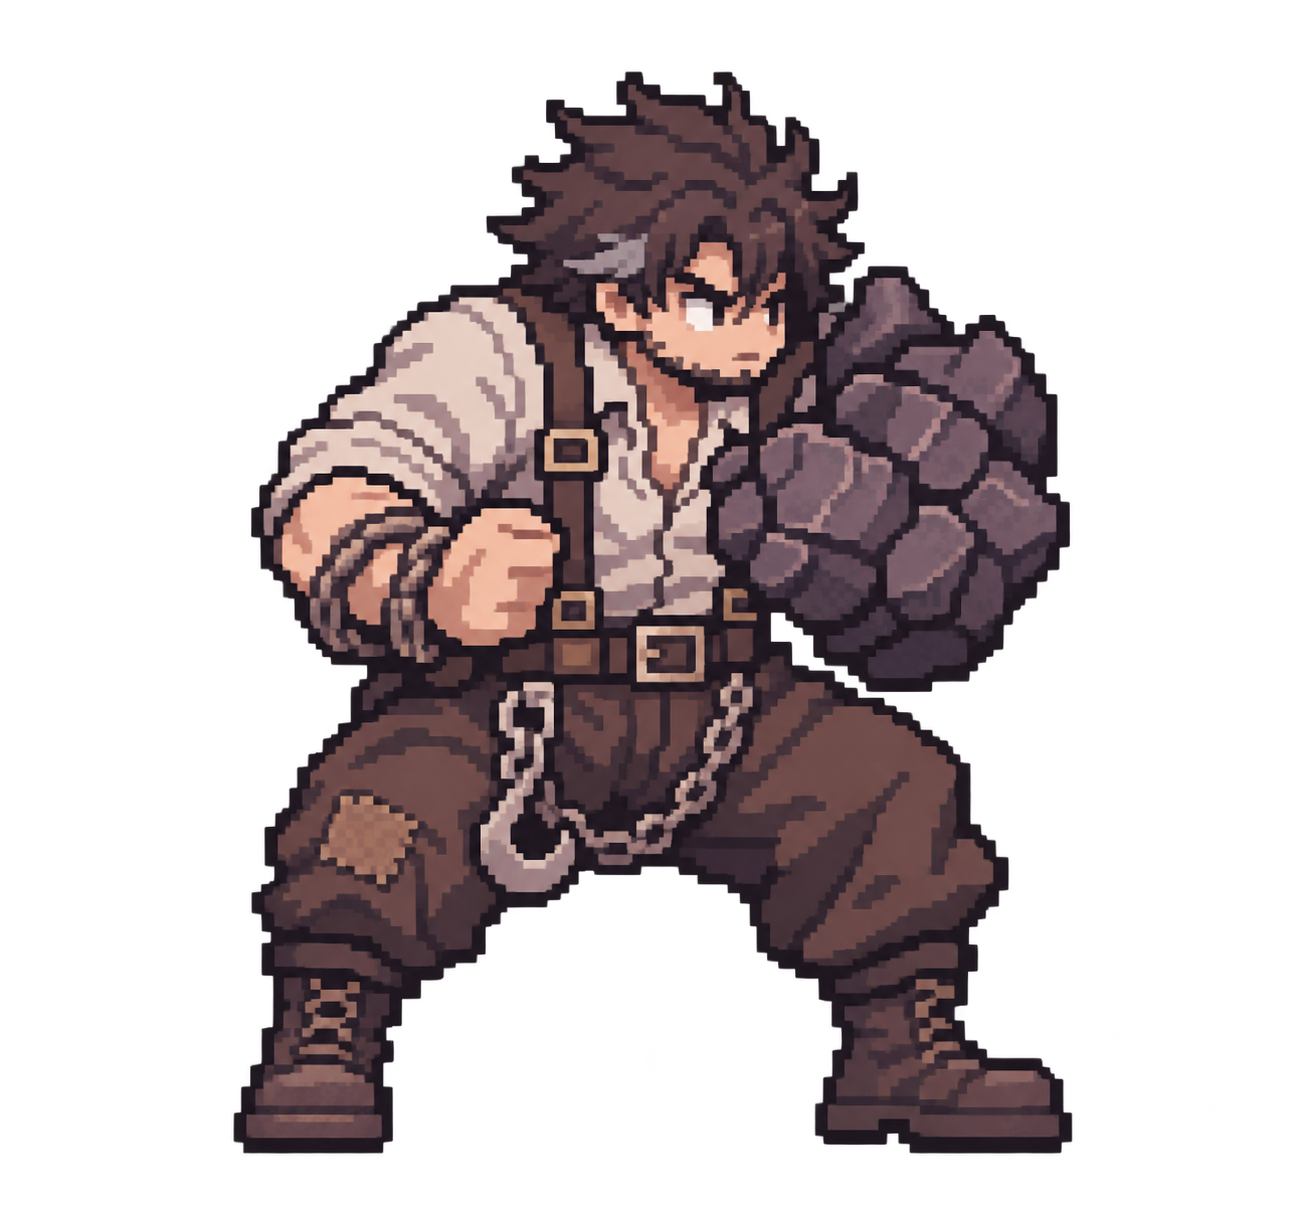
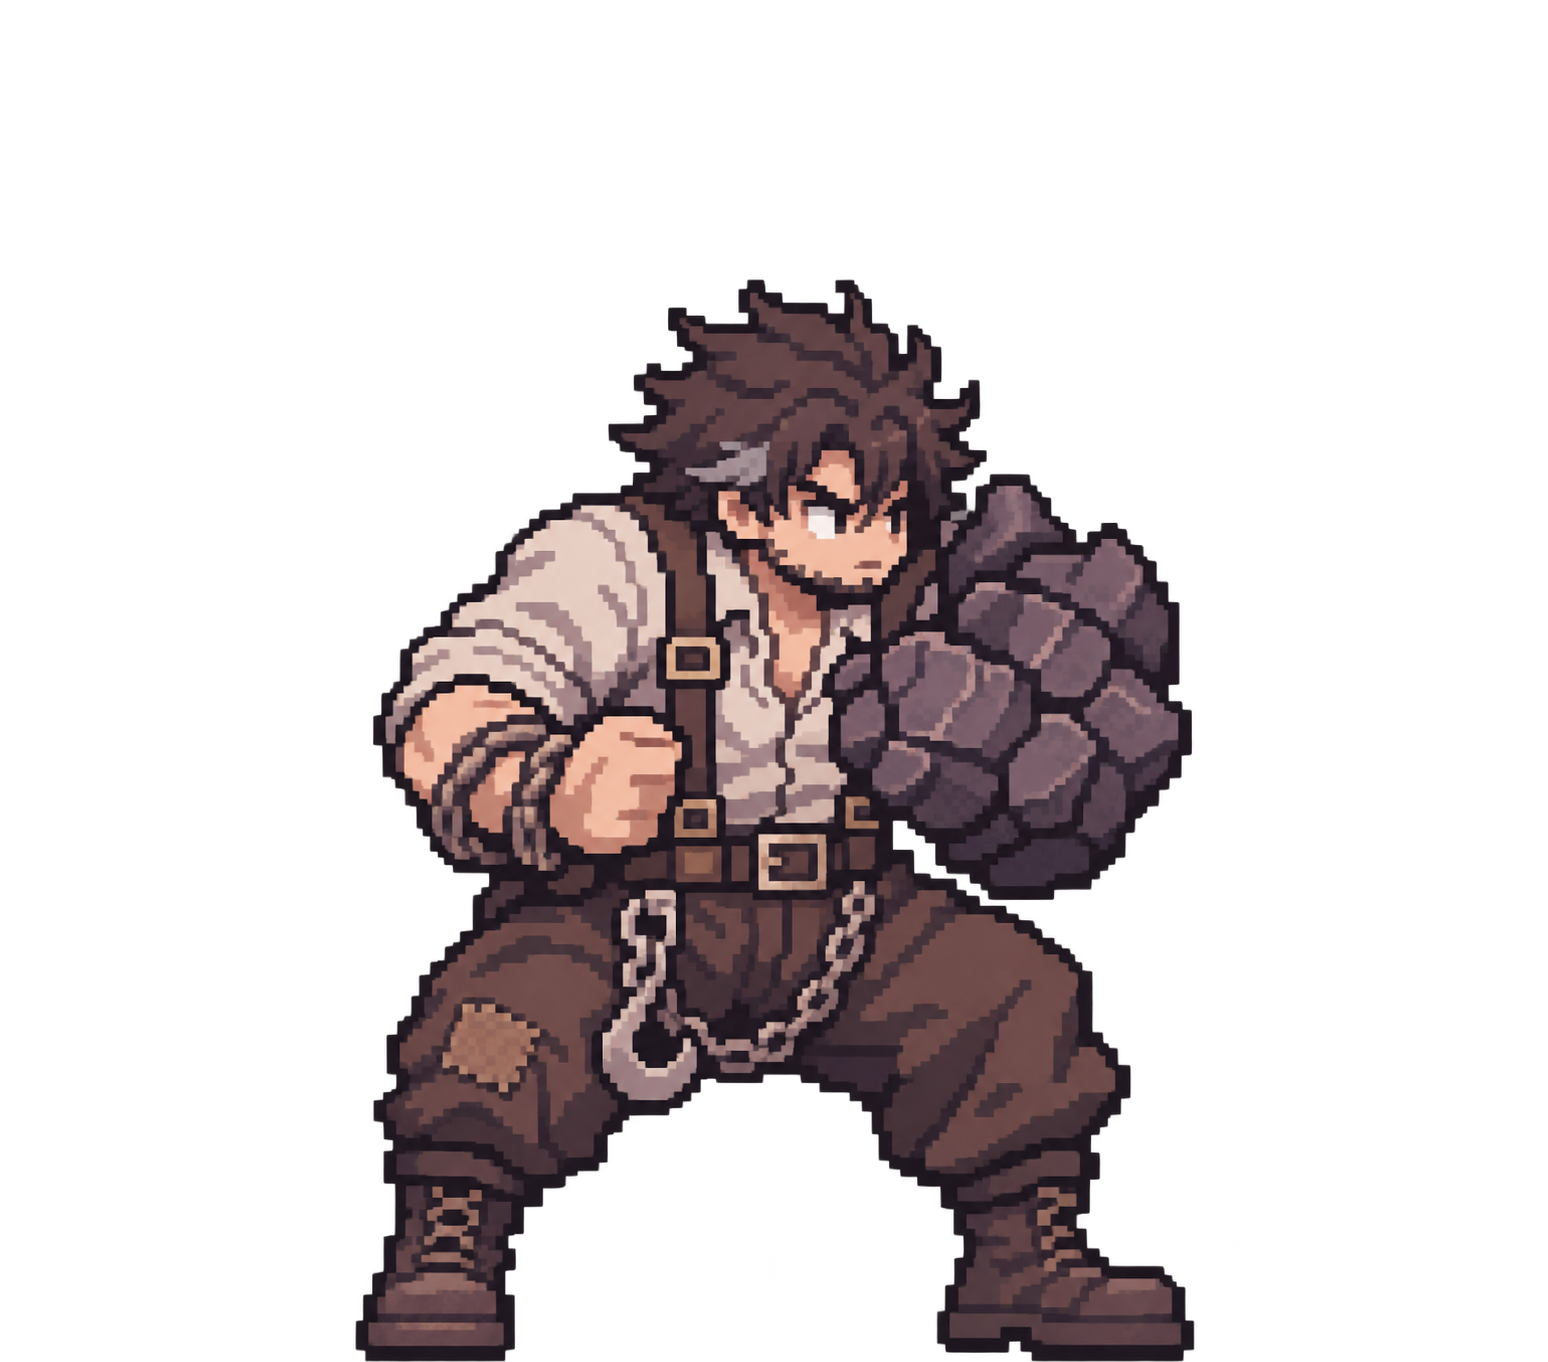
feat: battle sprites pivot at the feet
All frames of a unit share one canvas with the feet at bottom-center
(SpritePivot). Bram poses padded to 1548x1362, Hongyeon idle shifted 4px,
status effects anchored to the feet. Unit token, performance Actor and the
stage view tab use the same rule.

diff --git a/docs/progress.md b/docs/progress.md
@@ -1,6 +1,6 @@
 # Project Void 개발 진행 상황
 
-마지막 갱신: 2026-11-24
+마지막 갱신: 2026-11-25
 
 코드 구조 관계도 (Figma): https://www.figma.com/design/tQfd1uNHyAqbmYuwPUHkan — 카드 데이터 흐름 / 데이터 구조 / 전투 런타임, 구현됨·예정 색 구분
 
@@ -17,6 +17,7 @@
 | 이동 버튼 (2026-11-17) | 이동 칸(하늘색)이 항상 떠 있던 것을 **이동 버튼**으로 바꿈: 버튼을 눌러야 갈 수 있는 칸이 빛나고, 칸을 누르면 이동 후 모드가 꺼짐. ESC·우클릭·카드/아이템 고르기·차례 종료로도 꺼짐. 이동력 0·적 차례·연출 중엔 버튼 비활성 | `battle_screen.gd` (`toggle_move`, `is_move_mode`), 씬 `BottomRight/MoveButton`, 설계 `docs/superpowers/specs/2026-11-17-move-button-design.md` |
 | 키워드 파일 이름 (2026-11-10) | `cards/keywords/` 파일 이름을 id 대신 키워드 이름으로 (겹치면 `_<id>`). 게임은 `KeywordData.find` 로 파일 안의 id 로 찾음. 기존 id 이름 파일은 다음 카드 가져오기 때 자동으로 이름이 바뀜 | `Scripts/cards/keyword_data.gd`, `addons/card_importer/card_importer.gd` |
 | 홍연 전투 그림·혈갑 이펙트 (2026-11-23) | 홍연 idle(128px 8칸, 칸당 300ms)을 전투 그림으로 연결 (`hongyeon`·시험용 홍연 둘 다). 유닛별 그림 배율 `UnitData.battle_scale`(브람 일러스트 = 1, 128px 픽셀 = 10 → 화면 2배)·픽셀 그림 Nearest(`battle_pixel_art`), 중심 위치는 배율과 상관없이 같음. 상태에 **전투 이펙트** 칸(`StatusData.effect_behind`/`effect_front`): 그 상태를 가진 동안 유닛 그림 뒤·앞에 반복 재생, 상태가 사라지면 같이 사라짐. 혈갑에 bloodswirl(80칸, 20 FPS) 연결. 연출 씬(Actor)에는 아직 배율 미적용 | `entities/units/hongyeon_frames.tres`, `statuses/effects/`, `Art/vfx/hongyeon/`, `Scripts/ui/unit_token.gd`, 씬 `unit_token.tscn` 의 `Sprite/EffectBehind`·`EffectFront` |
+| 전투 그림 발밑 피벗 (2026-11-25) | 전투 그림의 기준점을 **발밑**으로: 규약 = 한 그림 묶음의 프레임은 모두 같은 캔버스 크기, 두 발 가운데가 캔버스 아래 가운데 (`SpritePivot.foot_offset` → offset = (0, -캔버스 높이/2)). 유닛 박스의 `Sprite` 노드 위치(지금 칸 중심)에 발이 선다 — 높이를 바꾸려면 `unit_token.tscn` 의 `Sprite` position. 브람 5동작 PNG 를 1548×1362 공통 캔버스로 패딩(동작 바뀔 때 안 튐), 홍연 idle 을 4px 왼쪽으로, 상태 이펙트도 바닥 가운데가 발밑에. 연출 Actor·연출 화면 탭도 같은 규약 | `Scripts/ui/sprite_pivot.gd`, `Scripts/ui/unit_token.gd`, `Scripts/performances/card_performance.gd`, `addons/performance_stage_view/stage_view.gd`, `Art/characters/bram_welburn/`, `Art/characters/hongyeon/hongyeon_idle.png` |
 | 카드 화면 | 웹 에디터와 같은 카드 모양, 마우스를 올리면 키워드 설명. 2026-11-17: "+N" 강화 배지를 없애고 **강화 버전 카드는 옅은 금색 바탕 + 금빛 광채**로 구분 (색은 `CardView` 인스펙터 "강화 버전 모양") | `ui/card_view/card_view.tscn` |
 | 카드 갤러리 | 에디터에서 열기만 해도 카드가 보임. 인스펙터 Deck 으로 덱별 보기, 실행(F6) 시 탭 | `ui/card_gallery/card_gallery.tscn` |
 | 테스트 도구 | GUT 9.7.1 (실행 방법은 CLAUDE.md) | `addons/gut`, `tests/` |
